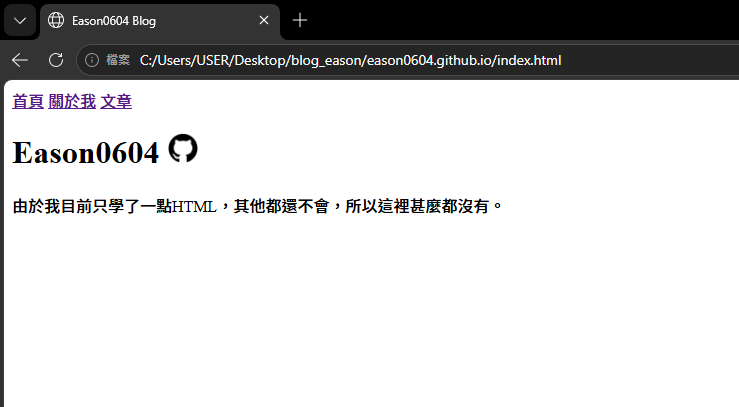
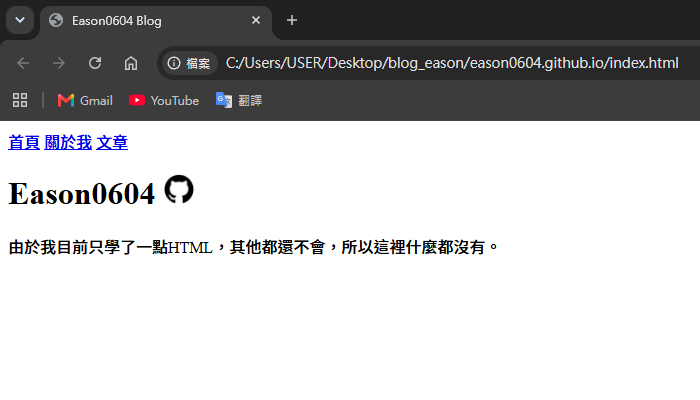
update text

Changed region(s): [[0.0, 0.0, 1.0, 1.0]]

diff --git a/index.html b/index.html
@@ -12,6 +12,6 @@
             <a href="blog.html">文章</a>
         </nav>
         <h1>Eason0604 <a href="https://github.com/Eason0604" target="_blank"><img src="images/logo/GitHub_Logo.webp" width="30" alt="(github logo)" /></a></h1>
-        <p>由於我目前只學了一點HTML，其他都還不會，所以這裡甚麼都沒有。</p>
+        <p>由於我目前只學了一點HTML，其他都還不會，所以這裡什麼都沒有。</p>
     </body>
 </html>